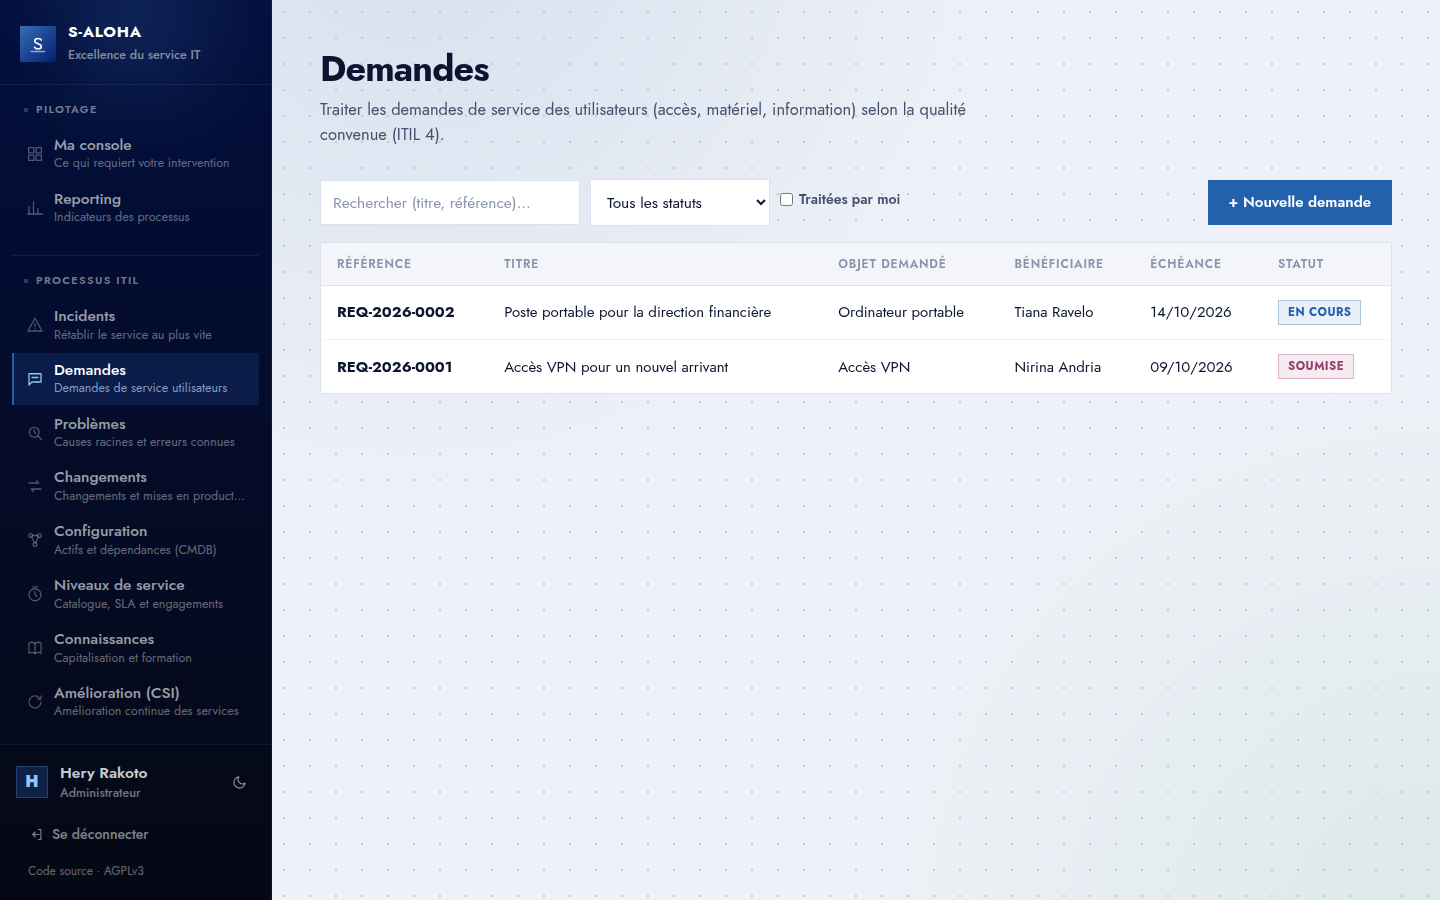
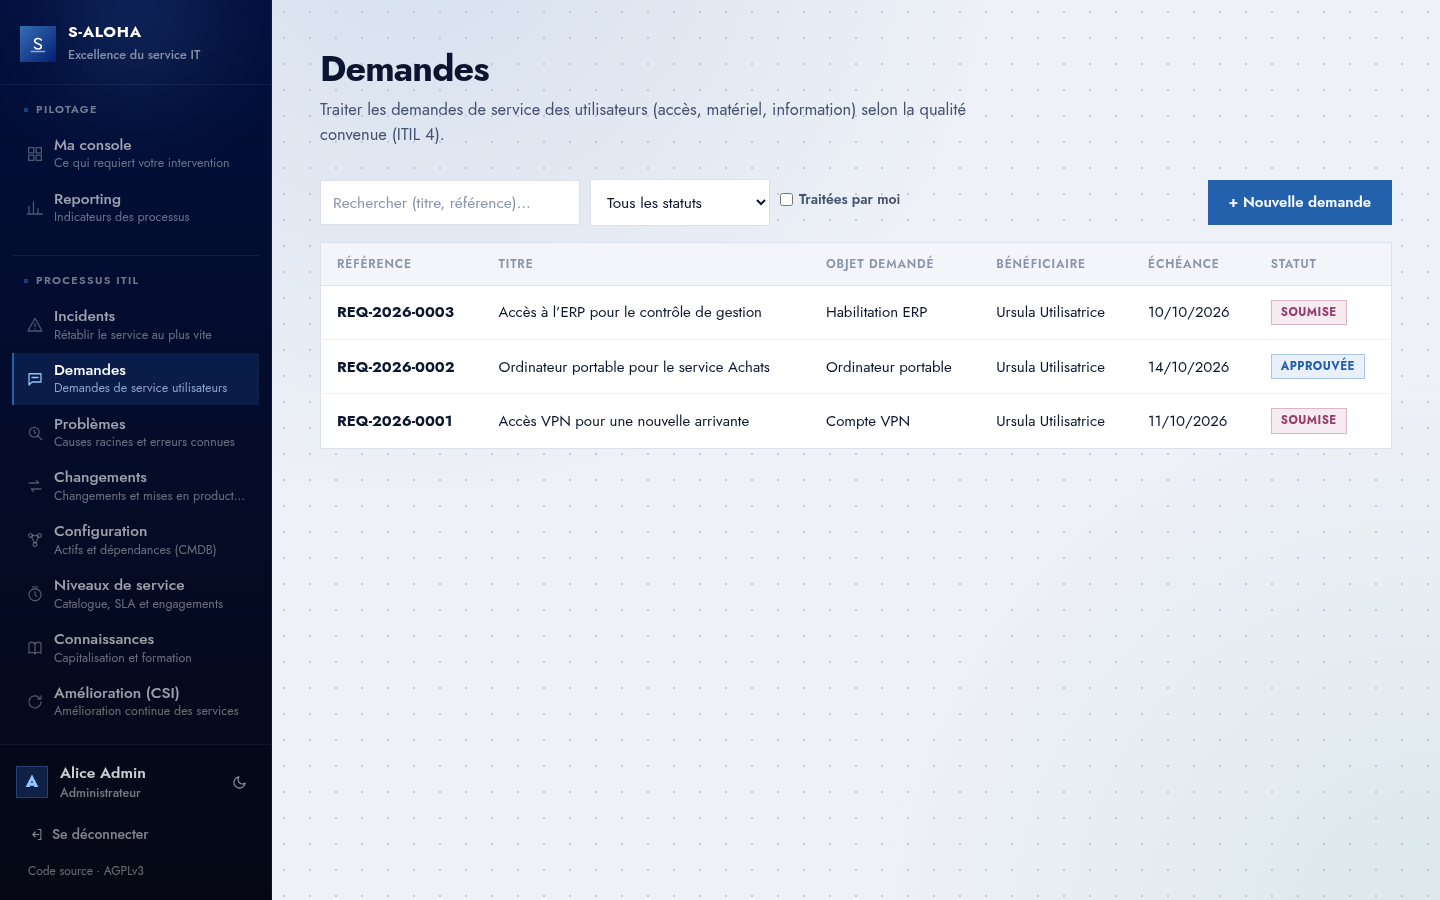
Mode démonstration enrichi et captures d'écran régénérées
Données d'exemple étoffées (services, SLA, CI, incidents dans tous les statuts,
problèmes en analyse et clos, changements réussi et à autoriser, articles,
améliorations) ; les 16 captures régénérées depuis le mode démonstration, avec
la navigation et les onglets actuels (#26).

diff --git a/demo/donnees/charger.py b/demo/donnees/charger.py
@@ -201,7 +201,121 @@ def main():
         'benefit': 'Respect du SLA Accès distant', 'baseline': '11 h en moyenne', 'target': '6 h',
         'outcome': None, 'dueDate': jour(45)}, 'Validée')
 
+    complements(m, u, messagerie, erp, mail, bdd, parefeu)
     print('✔ Données de démonstration chargées.')
+
+
+def complements(m, u, messagerie, erp, mail, bdd, parefeu):
+    """Second jeu : de quoi remplir registres, reporting et captures d'écran."""
+    # --- Services et SLA ---------------------------------------------------------
+    impression = creer(m, '/api/services', {**MARC, 'title': 'Impression',
+        'description': 'Impression et numérisation sur les sites.',
+        'criticality': 'Faible', 'serviceHours': 'Jours ouvrés, 8 h – 17 h'}, 'En service')
+    creer(m, '/api/services', {**MARC, 'title': 'Téléphonie IP',
+        'description': 'Postes téléphoniques et standard.', 'criticality': 'Moyenne',
+        'serviceHours': '24 h/24, 7 j/7'}, 'En conception')
+    sla = {**MARC, 'resolutionHoursP1': 4, 'resolutionHoursP2': 8, 'resolutionHoursP3': 24,
+           'resolutionHoursP4': 72, 'validFrom': jour(-180), 'validTo': jour(185)}
+    creer(m, '/api/agreements', {**sla, 'title': 'SLA Messagerie — toutes directions',
+        'description': 'Disponibilité et résolution de la messagerie.', 'serviceId': messagerie['id'],
+        'customer': 'Toutes directions', 'availabilityTarget': 99.5, 'reviewDate': jour(120)}, 'En vigueur')
+    creer(m, '/api/agreements', {**sla, 'title': 'SLA ERP — Direction financière',
+        'description': 'Engagement renforcé pendant les clôtures.', 'serviceId': erp['id'],
+        'customer': 'Direction financière', 'availabilityTarget': 99.8, 'reviewDate': jour(60)}, 'En vigueur')
+    creer(m, '/api/agreements', {**sla, 'title': 'SLA Impression — sites régionaux',
+        'description': 'En cours de négociation.', 'serviceId': impression['id'],
+        'customer': 'Sites régionaux', 'availabilityTarget': 98, 'reviewDate': None})
+
+    # --- Configuration -----------------------------------------------------------
+    def ci(titre, type_, lieu, desc, statut=None):
+        corps = {**MARC, 'title': titre, 'description': desc, 'ciType': type_,
+                 'environment': 'Production', 'location': lieu}
+        if statut:
+            corps['status'] = statut
+        return appel('POST', '/api/configuration-items', m, corps)
+    exchange = ci('APP-EXCHANGE', 'Application', 'Salle serveurs — siège', 'Messagerie Exchange.')
+    san = ci('SAN-01', 'Stockage', 'Salle serveurs — siège', 'Baie de stockage partagée.')
+    app_erp = ci('APP-ERP', 'Application', 'Salle serveurs — siège', 'Application ERP.')
+    imp = ci('IMP-TOAMASINA-01', 'Autre', 'Agence de Toamasina', 'Imprimante multifonction.', 'Hors service')
+    ci('SW-MAHAJANGA-01', 'Réseau', 'Agence de Mahajanga', 'Commutateur d’agence.')
+    for source, cible, type_ in [(exchange, mail, 'Dépend de'), (mail, san, 'Dépend de'),
+                                 (app_erp, bdd, 'Dépend de'), (bdd, san, 'Dépend de'),
+                                 (imp, parefeu, 'Se connecte à')]:
+        appel('POST', f'/api/configuration-items/{source["id"]}/relations', m,
+              {'targetReference': cible['reference'], 'type': type_})
+    lier(m, 'ci', exchange['id'], messagerie['reference'])
+    lier(m, 'ci', app_erp['id'], erp['reference'])
+    lier(m, 'ci', imp['id'], impression['reference'])
+
+    # --- Incidents ---------------------------------------------------------------
+    def incident(titre, desc, impact, urgence, cat, service, statut=None, resolution=None):
+        return creer(u, '/api/incidents', {**URSULA, 'title': titre, 'description': desc,
+            'impact': impact, 'urgency': urgence, 'category': cat, 'affectedService': service,
+            'isMajor': False, 'resolution': resolution}, statut)
+    incident('ERP inaccessible pendant la clôture mensuelle', 'Erreur de connexion à la base.',
+             'Élevé', 'Élevée', 'Application', 'ERP Finances', 'Résolu',
+             'Redémarrage du service de base de données ; surveillance renforcée.')
+    incident('Imprimante de Toamasina hors ligne', 'Plus aucune impression depuis ce matin.',
+             'Faible', 'Moyenne', 'Matériel', 'Impression', 'En attente')
+    incident('Boîte aux lettres pleine', 'Réception bloquée pour un utilisateur.',
+             'Faible', 'Faible', 'Messagerie', 'Messagerie', 'Clos', 'Archivage et quota relevé.')
+    incident('Lenteurs ERP en fin de journée', 'Temps de réponse supérieurs à 10 s.',
+             'Moyen', 'Moyenne', 'Application', 'ERP Finances')
+
+    # --- Problèmes ---------------------------------------------------------------
+    def probleme(titre, desc, impact, urgence, cat, service):
+        return appel('POST', '/api/problems', u, {'title': titre, 'description': desc,
+            'impact': impact, 'urgency': urgence, 'category': cat, 'affectedService': service,
+            'status': None, 'knownErrorWorkaround': None, 'rootCause': None})
+    p_erp = probleme('Lenteurs récurrentes de l’ERP en fin de journée',
+        'Temps de réponse dégradés chaque soir depuis trois semaines.', 'Moyen', 'Moyenne',
+        'Application', 'ERP Finances')
+    appel('POST', f'/api/problems/{p_erp["id"]}/analyses', u, {'method': 'ISHIKAWA',
+        'dataJson': json.dumps({'categories': {
+            'Méthode': ['Traitements par lots lancés à 17 h'], 'Matériel': ['Baie SAN saturée en écriture'],
+            'Main-d’œuvre': [], 'Milieu': ['Pic de saisie avant la clôture'],
+            'Matière': ['Index manquant sur les écritures'], 'Mesure': ['Pas de supervision des temps de réponse']},
+            'rootCause': ''}, ensure_ascii=False), 'conclusion': None})
+    p_mail = probleme('Boîtes aux lettres saturées', 'Quotas atteints sans alerte préalable.',
+        'Faible', 'Moyenne', 'Messagerie', 'Messagerie')
+    appel('PUT', f'/api/problems/{p_mail["id"]}', m, {'title': p_mail['title'],
+        'description': p_mail['description'], 'status': 'Clos', 'impact': 'Faible', 'urgency': 'Moyenne',
+        'category': 'Messagerie', 'affectedService': 'Messagerie', 'knownErrorWorkaround': None,
+        'rootCause': 'Aucune alerte de quota configurée sur le serveur de messagerie.'})
+
+    # --- Changements -------------------------------------------------------------
+    chg = {**MARC, 'title': 'Mise à jour du serveur de messagerie', 'description': 'Correctifs de sécurité mensuels.',
+        'changeType': 'Normal', 'risk': 'Moyen', 'plannedStart': jour(-12), 'plannedEnd': jour(-12),
+        'implementationPlan': 'Appliquer les correctifs, redémarrer, vérifier les flux.',
+        'backoutPlan': 'Désinstaller les correctifs.', 'outcome': None}
+    c = creer(m, '/api/changes', chg, 'Autorisé')
+    for statut in ['Planifié', 'Mis en œuvre']:
+        appel('PUT', f'/api/changes/{c["id"]}', m, {**chg, 'status': statut})
+    appel('PUT', f'/api/changes/{c["id"]}', m, {**chg, 'status': 'Clos', 'outcome': 'Réussi'})
+    lier(m, 'change', c['id'], mail['reference'])
+    ajout = creer(u, '/api/changes', {**URSULA, 'title': 'Ajout d’un index sur les écritures comptables',
+        'description': 'Correctif des lenteurs de l’ERP.', 'changeType': 'Normal', 'risk': 'Faible',
+        'plannedStart': jour(7), 'plannedEnd': jour(7), 'implementationPlan': 'Créer l’index hors production, puis en production.',
+        'backoutPlan': 'Supprimer l’index.', 'outcome': None}, 'Évalué')
+    lier(u, 'change', ajout['id'], p_erp['reference'])
+    lier(u, 'change', ajout['id'], bdd['reference'])
+
+    # --- Demandes, connaissances, amélioration -----------------------------------
+    creer(u, '/api/requests', {**URSULA, 'title': 'Accès à l’ERP pour le contrôle de gestion',
+        'description': 'Profil lecture seule.', 'requestedItem': 'Habilitation ERP',
+        'requestedFor': 'demo.user', 'requestedForDisplayName': 'Ursula Utilisatrice', 'dueDate': jour(3)})
+    for titre, type_, contenu in [
+        ('Configurer la messagerie sur un téléphone', 'Procédure', 'Paramètres du compte, serveur et authentification.'),
+        ('Que faire si l’ERP est lent ?', 'FAQ', 'Vérifier l’heure : les traitements par lots tournent à 17 h.'),
+        ('Libérer de l’espace dans sa boîte aux lettres', 'Solution', 'Archiver les messages de plus d’un an.')]:
+        creer(m, '/api/knowledge', {**MARC, 'title': titre, 'description': '', 'articleType': type_,
+            'content': contenu, 'keywords': '', 'reviewDate': jour(200)}, 'Publié')
+    for titre, etape, priorite, statut in [
+        ('Superviser les temps de réponse des applications', 4, 'Élevée', 'Validée'),
+        ('Former les agences à la résolution de premier niveau', 1, 'Moyenne', None)]:
+        creer(m, '/api/improvements', {**MARC, 'title': titre, 'description': '', 'step': etape,
+            'priority': priorite, 'benefit': 'Moins d’incidents escaladés', 'baseline': 'À mesurer',
+            'target': 'À définir', 'outcome': None, 'dueDate': jour(60)}, statut)
 
 
 if __name__ == '__main__':

diff --git a/docs/reference/exploitation.md b/docs/reference/exploitation.md
@@ -44,11 +44,14 @@ de service `svc-saloha` et un compte par rôle :
 - Premier démarrage : environ une minute, le temps de provisionner le domaine ; l'API
   attend que l'annuaire soit prêt.
 - **Données d'exemple** : le service ponctuel `donnees` charge, par l'API, un jeu fictif
-  et relié (`demo/donnees/charger.py`) : trois services et un SLA, quatre CI et leurs
-  relations, trois incidents dont un majeur, deux problèmes dont une erreur connue avec
-  son analyse 5 Pourquoi et ses actions RACI (une en retard), un changement planifié, deux
-  demandes, un article publié, une amélioration validée. Il ne fait rien si des problèmes
-  existent déjà.
+  et relié (`demo/donnees/charger.py`) : cinq services et quatre SLA (dont un en
+  brouillon), neuf CI et leurs relations, sept incidents dans tous les statuts dont un
+  majeur, quatre problèmes (erreur connue avec analyse 5 Pourquoi et actions RACI dont une
+  en retard, analyse Ishikawa en cours, problème clos), quatre changements (réussi,
+  planifié, évalué, standard), trois demandes, quatre articles publiés, trois
+  améliorations. Il ne fait rien si des problèmes existent déjà. Toutes les dates de
+  création sont celles du chargement : les MTTR du reporting valent donc 0 sur une pile
+  neuve.
 - L'annuaire est conservé dans le volume `annuaire` ; `docker compose … down -v` repart
   d'un domaine neuf.
 - Le conteneur de l'annuaire est **privilégié**, les mots de passe sont **publics** et le
